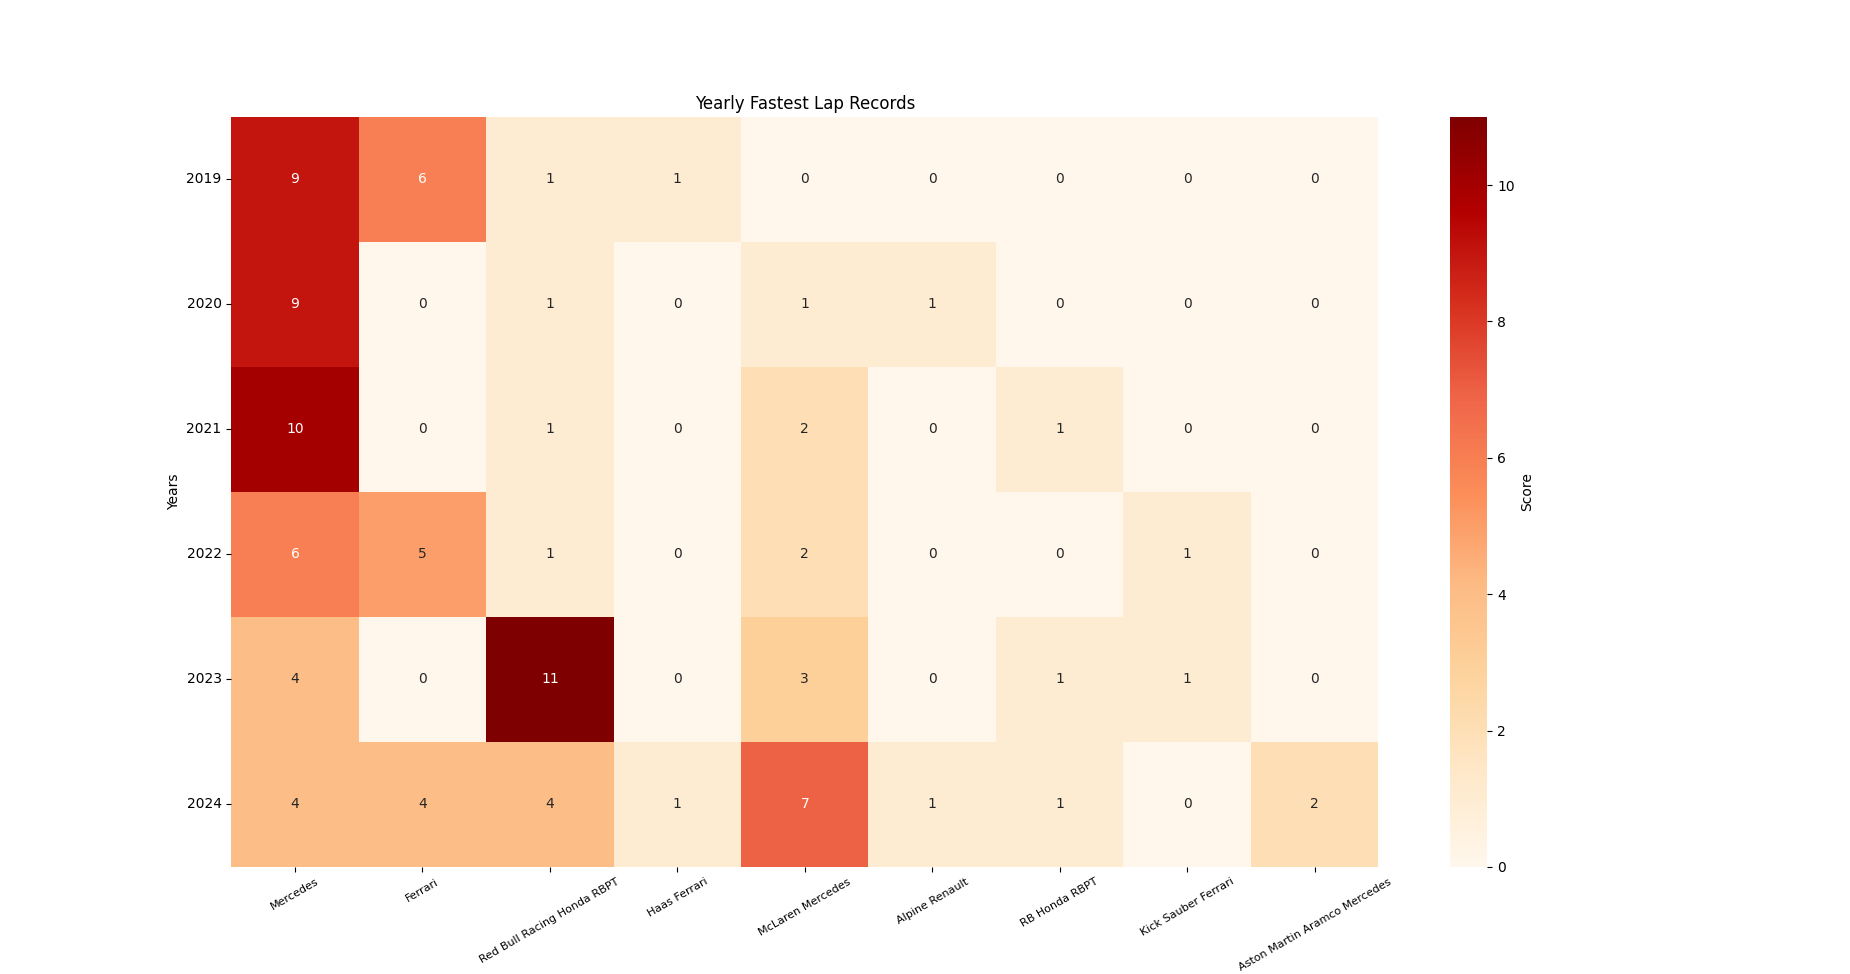
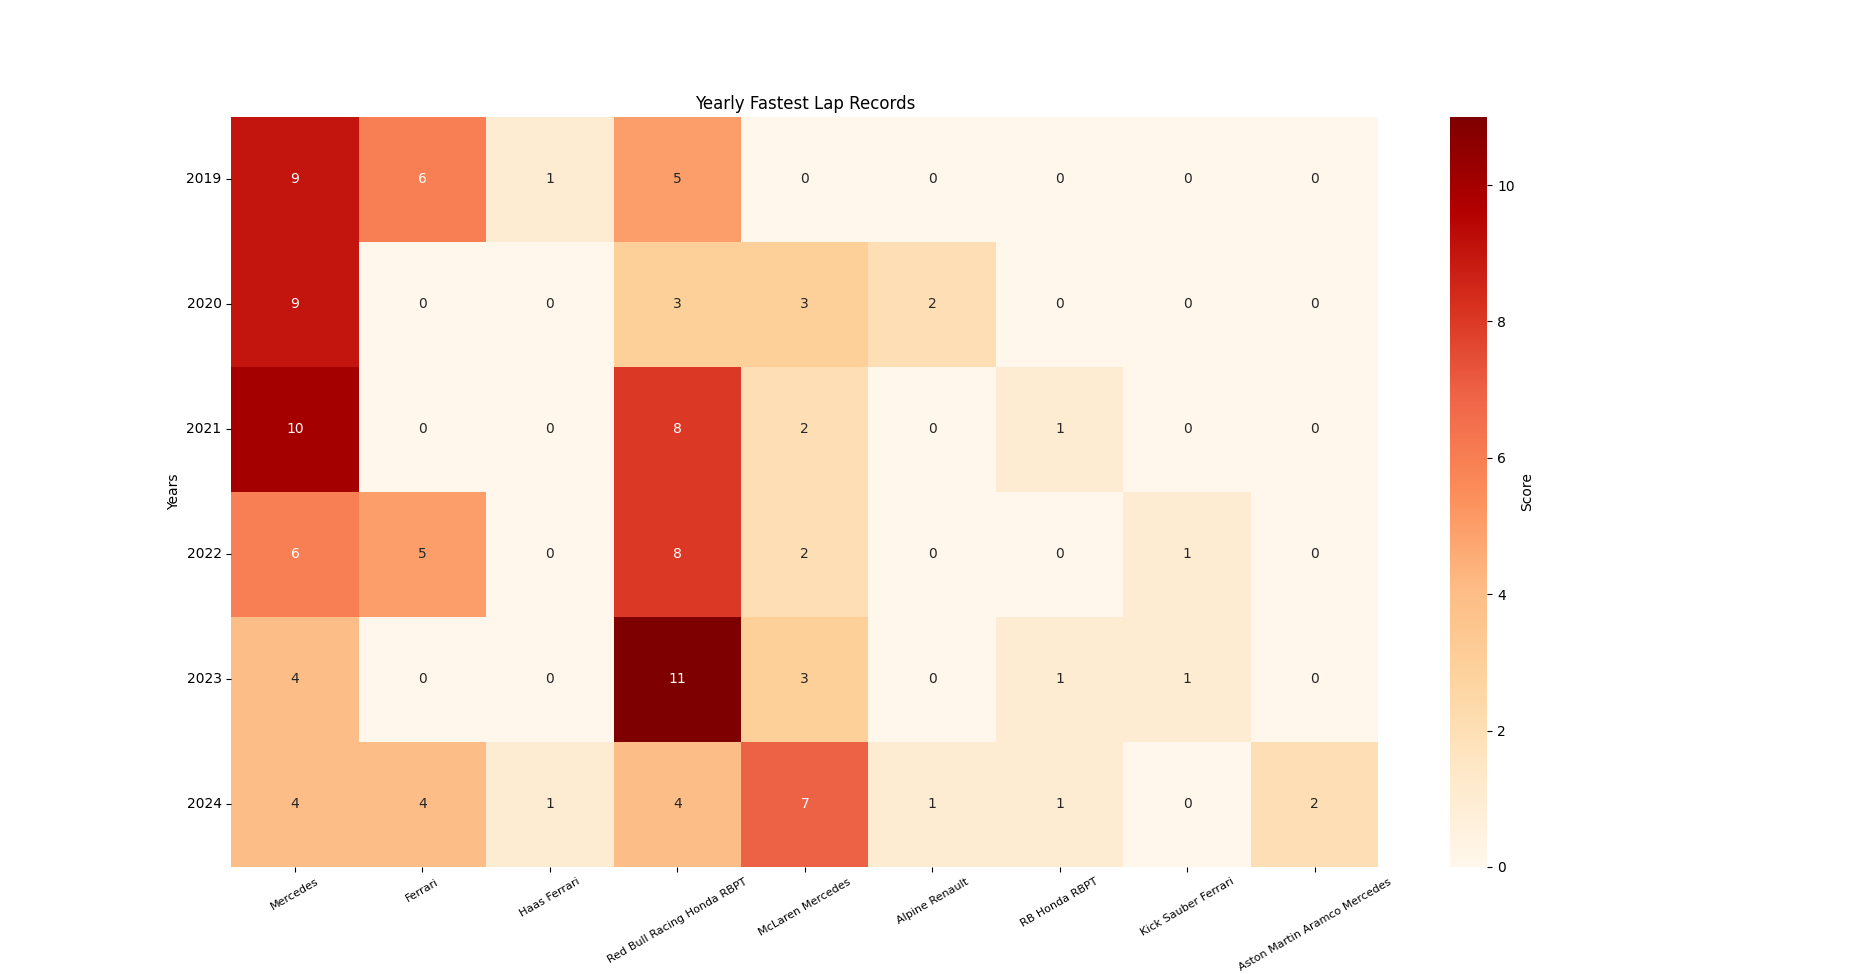
from past name to curr name in constructor modified

diff --git a/DHL_Fastestlap_effect/F1official_crawling.py b/DHL_Fastestlap_effect/F1official_crawling.py
@@ -10,7 +10,7 @@ import seaborn as sns
 matplotlib.use("TkAgg")
 
 remote = mysql.connector.connect(
-    host = "****",
+    host = "m****",
     port = "3306",
     user = "root",
     password = "****",
@@ -108,35 +108,38 @@ for year in year_list:
 
         except:
             continue
-        
-        # from past team name to current team name.
+
+
+    # from past team name to current team name.
+    for each in constructor_in_each_year.values():
+    
         if "Alfa Romeo Ferrari" in constructor_in_each_year:
             constructor_in_each_year["Kick Sauber Ferrari"] = constructor_in_each_year.pop("Alfa Romeo Ferrari")
-        elif "Alfa Romeo Racing Ferrari" in constructor_in_each_year:
+        if "Alfa Romeo Racing Ferrari" in constructor_in_each_year:
             constructor_in_each_year["Kick Sauber Ferrari"] = constructor_in_each_year.pop("Alfa Romeo Racing Ferrari")
-        elif "AlphaTauri Honda RBPT" in constructor_in_each_year:
+        if "AlphaTauri Honda RBPT" in constructor_in_each_year:
             constructor_in_each_year["RB Honda RBPT"] = constructor_in_each_year.pop("AlphaTauri Honda RBPT")
-        elif "Scuderia Toro Rosso Honda" in constructor_in_each_year:
+        if "Scuderia Toro Rosso Honda" in constructor_in_each_year:
             constructor_in_each_year["RB Honda RBPT"] = constructor_in_each_year.pop("Scuderia Toro Rosso Honda")
-        elif "AlphaTauri Honda" in constructor_in_each_year:
+        if "AlphaTauri Honda" in constructor_in_each_year:
             constructor_in_each_year["RB Honda RBPT"] = constructor_in_each_year.pop("AlphaTauri Honda")
-        elif "McLaren Renault" in constructor_in_each_year:
+        if "McLaren Renault" in constructor_in_each_year:
             constructor_in_each_year["McLaren Mercedes"] = constructor_in_each_year.pop("McLaren Renault")
-        elif "Red Bull Racing Honda" in constructor_in_each_year:
+        if "Red Bull Racing Honda" in constructor_in_each_year:
             constructor_in_each_year["Red Bull Racing Honda RBPT"] = constructor_in_each_year.pop("Red Bull Racing Honda")
-        elif "Red Bull Racing RBPT" in constructor_in_each_year:
+        if "Red Bull Racing RBPT" in constructor_in_each_year:
             constructor_in_each_year["Red Bull Racing Honda RBPT"] = constructor_in_each_year.pop("Red Bull Racing RBPT")
-        elif "Renault" in constructor_in_each_year:
+        if "Renault" in constructor_in_each_year:
             constructor_in_each_year["Alpine Renault"] = constructor_in_each_year.pop("Renault")
-        elif "Racing Point BWT Mercedes" in constructor_in_each_year:
+        if "Racing Point BWT Mercedes" in constructor_in_each_year:
             constructor_in_each_year["Aston Martin Aramco Mercedes"] = constructor_in_each_year.pop("Racing Point BWT Mercedes")
-        elif "Aston Martin Mercedes" in constructor_in_each_year:
+        if "Aston Martin Mercedes" in constructor_in_each_year:
             constructor_in_each_year["Aston Martin Aramco Mercedes"] = constructor_in_each_year.pop("Aston Martin Mercedes")
-        elif "Racing Point BWT Mercedes" in constructor_in_each_year:
+        if "Racing Point BWT Mercedes" in constructor_in_each_year:
             constructor_in_each_year["Aston Martin Aramco Mercedes"] = constructor_in_each_year.pop("Racing Point BWT Mercedes")
 
-        constructor_in_total[f"{year}"] = constructor_in_each_year
-        
+    constructor_in_total[f"{year}"] = constructor_in_each_year
+    
     print(constructor_in_total)
 
 
